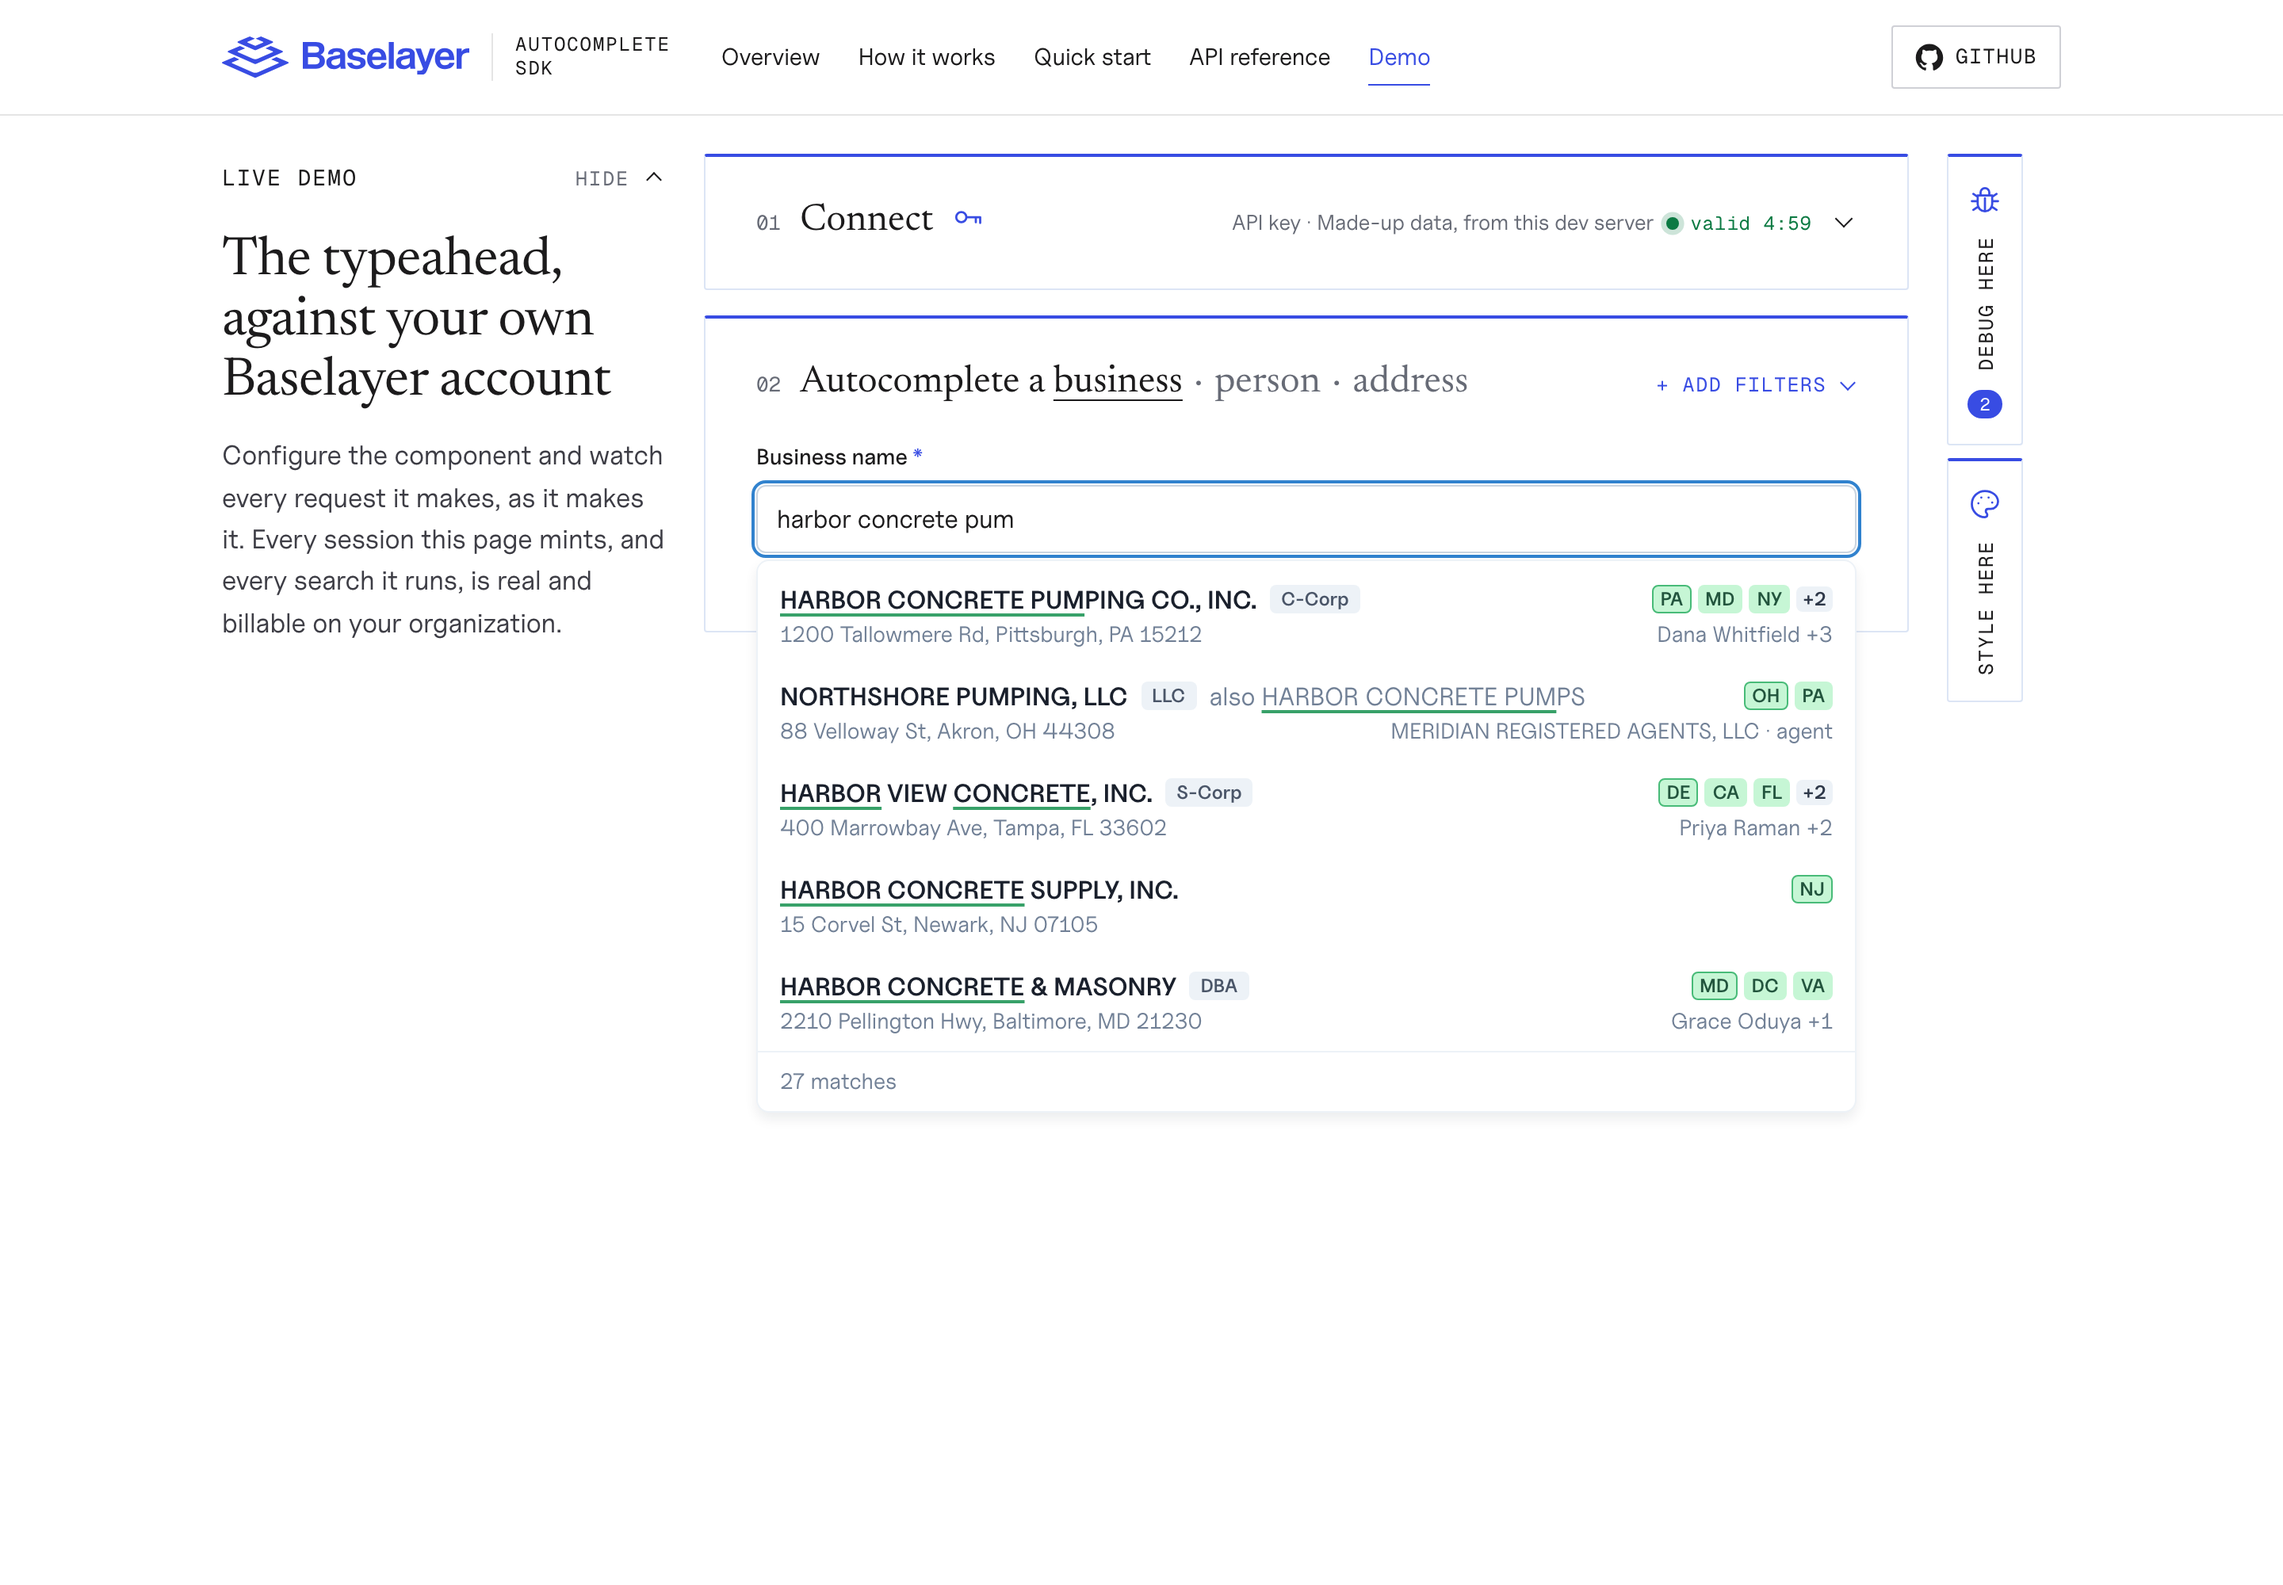
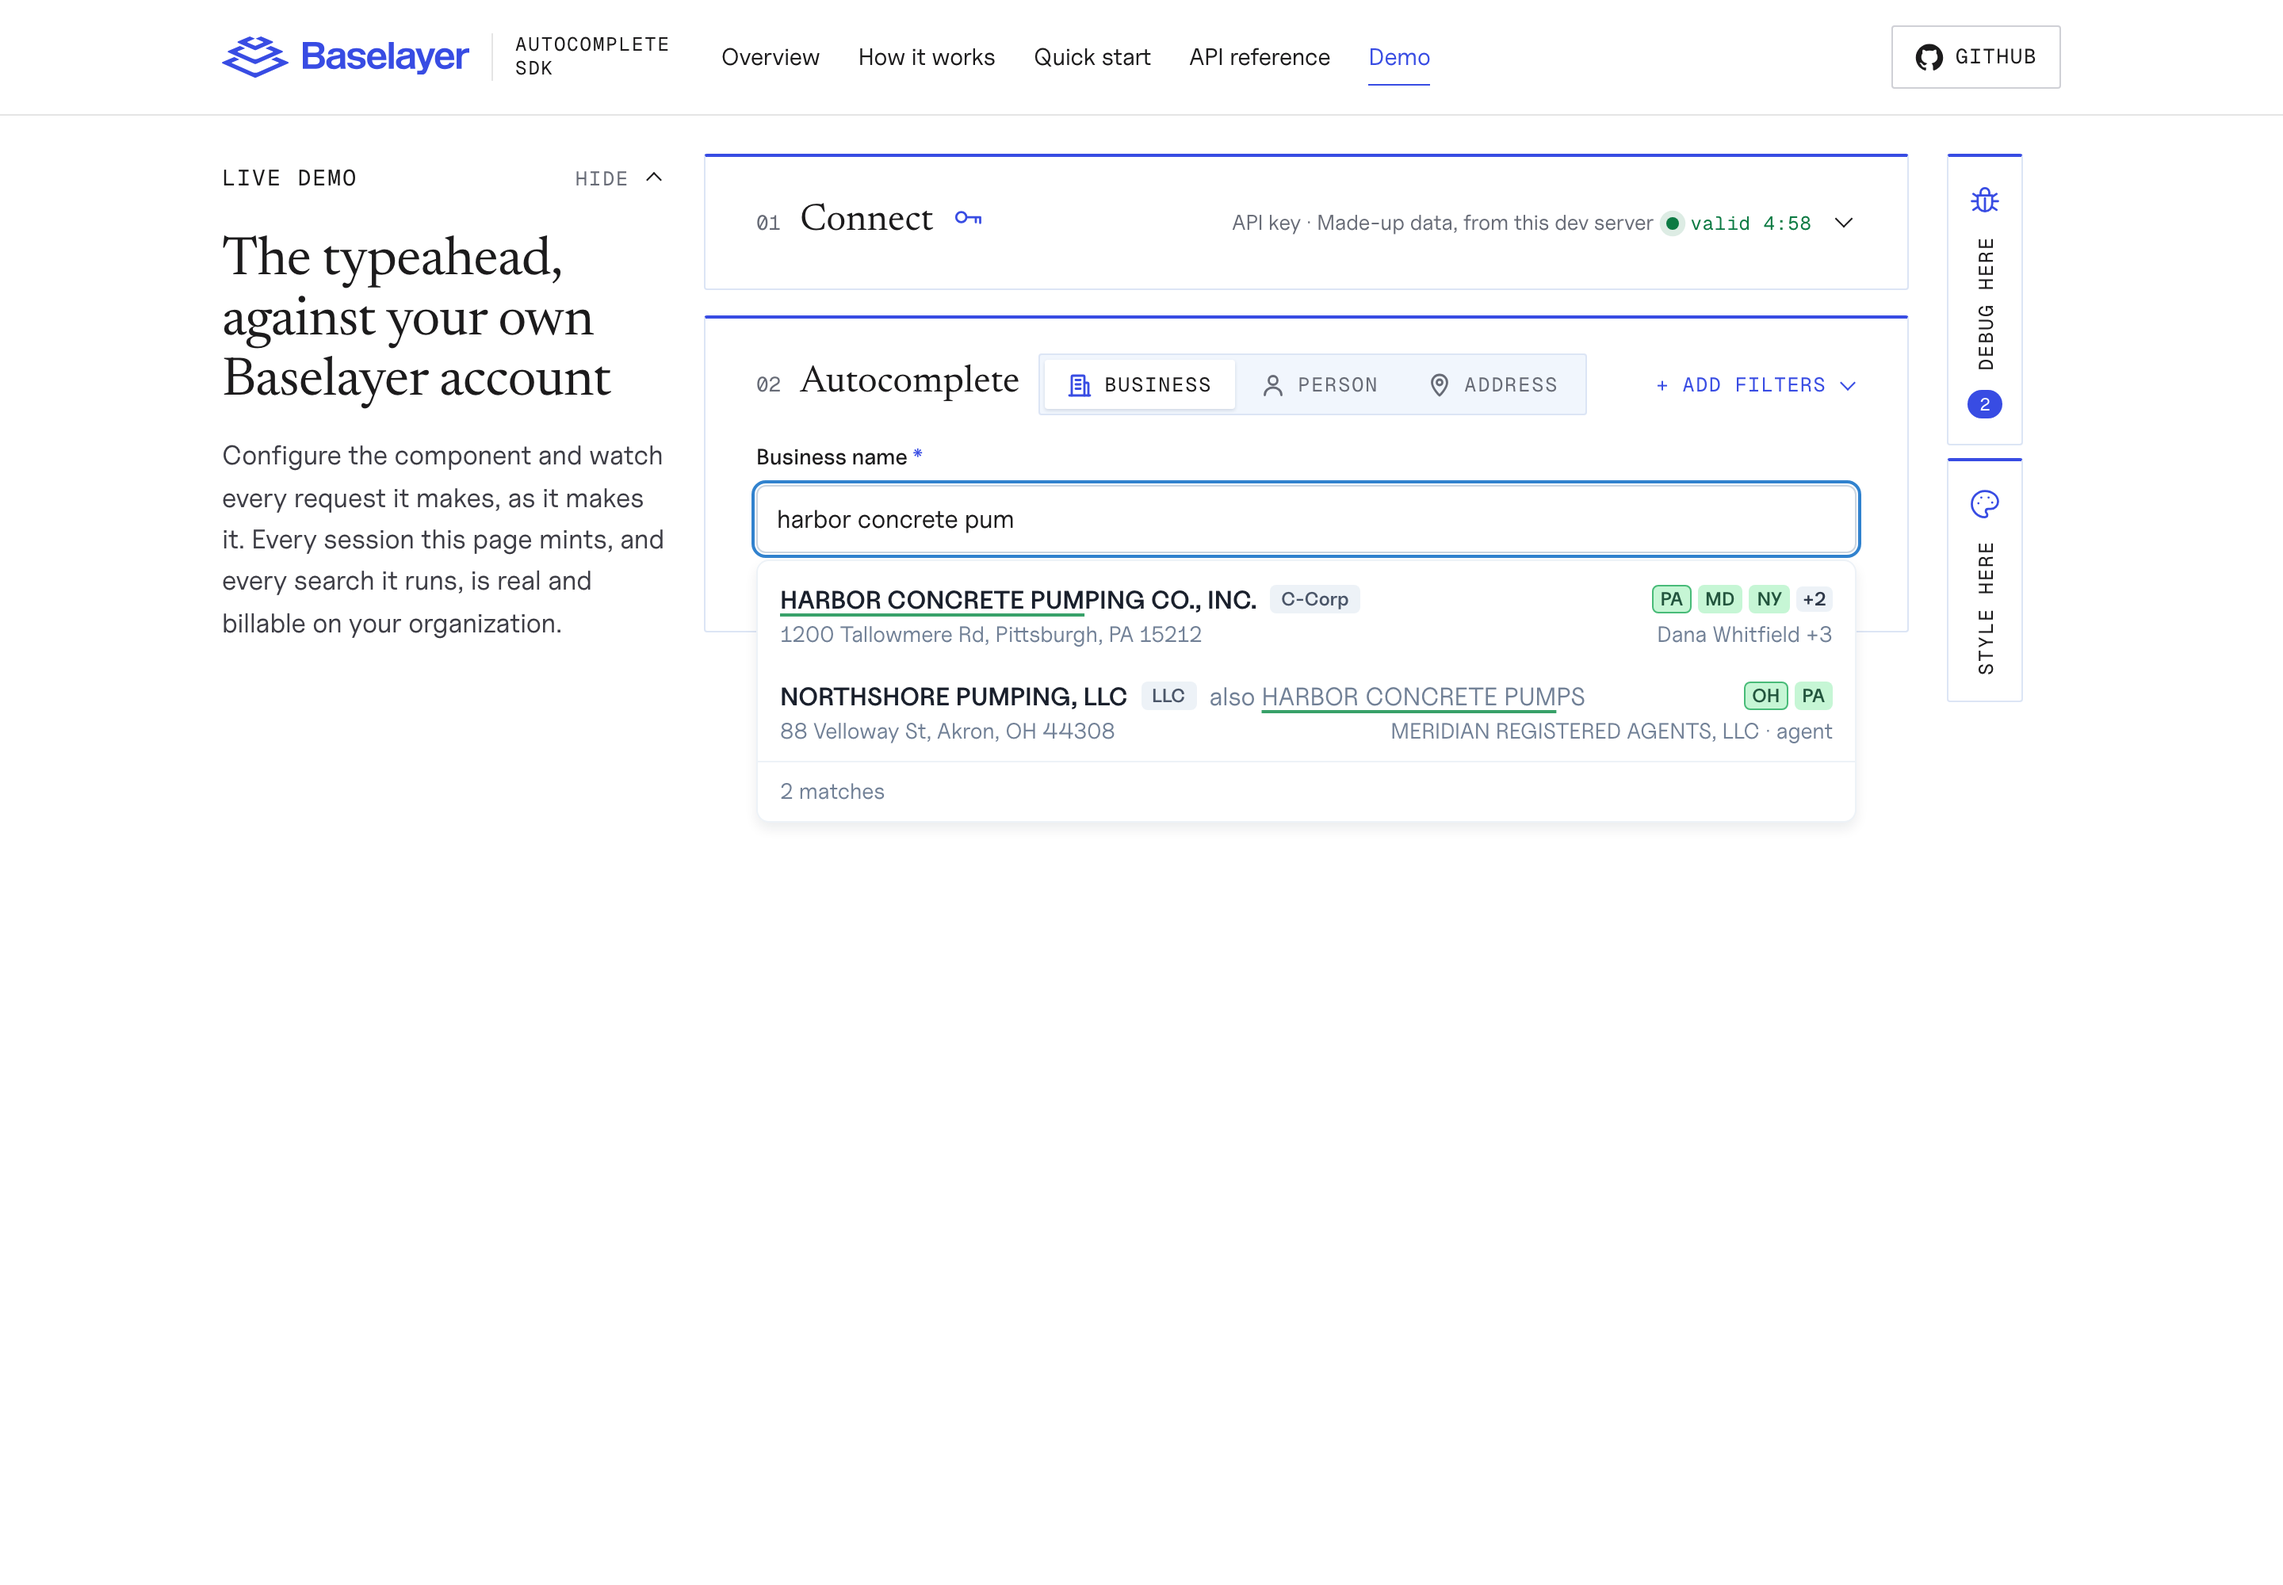
Retake the documentation screenshots of the demo and the API reference
The demo's title is a segmented button and the reference names its routes Autocomplete …, with a Try it here tab, so demo-split, demo-folded, demo-matched, demo-styled and site-api-reference are taken again, on the made-up data. docs/demo.md describes the title and the line under a picked business as they are.

diff --git a/docs/demo.md b/docs/demo.md
@@ -24,8 +24,8 @@ appears in them.
 
 The page is the window's height and never scrolls itself. It has three panes,
 side by side, each scrolling on its own: the introduction, the controls (**01
-Connect** and **02 Autocomplete a business**, and **03 Run a business search**
-once a business is picked), and Debug or Styling. The introduction folds to a
+Connect** and **02 Autocomplete**, and **03 Run a business search** once a
+business is picked), and Debug or Styling. The introduction folds to a
 **Live demo** tab with its **Hide**; opening Debug or Styling folds it too, to
 give that pane room, and the tab brings it back. On a narrow screen the panes
 stack and the page scrolls as any other does.
@@ -104,22 +104,23 @@ origin. For another environment, pick **Custom URL** and give its API host.
 
 ## The test form
 
-**02 Autocomplete a business, a person, or an address** is the component on a
-form of its own. Its title says what the field searches for, each search with
-its article: the selected one in blue, its noun underlined, the others muted and
-a click or an arrow key away. It offers only the searches the session's scope
-allows (**Autocomplete a business or a person** with two), and with businesses
-alone it reads **Autocomplete a business**; before you connect it offers all
-three, so Styling can show each. Business is the business name and
-its suggestions. Person and Address find the business another way: each
-person or address that fits comes with its counts (`7 businesses · 3
-addresses`), a person's first address, and a line for each of its first
-businesses, with the business's address, its states and the role there. Each
-business is a pick. A pick stays where it was made: the field takes the
-person's name or the address, and a line under it names the business picked,
-until you edit the field. Each search keeps its own text and its own pick:
-switching to another and back puts them back as they were, and the search
-switched to shows what was last typed in it, not what the other field held.
+**02 Autocomplete** is the component on a form of its own. Its title says what
+the field searches for: "Autocomplete" and a segmented button of the searches,
+each with the icon the component draws for it, the selected one raised and the
+others a click or an arrow key away. It offers only the searches the session's
+scope allows (two buttons with two), and with businesses alone it reads
+**Autocomplete a business**; before you connect it offers all three, so Styling
+can show each. Business is the business name and its suggestions. Person and
+Address find the business another way: each person or address that fits comes
+with its counts (`7 businesses · 3 addresses`), a person's first address, and a
+line for each of its first businesses, with the business's address, its states
+and the role there. Each business is a pick. A pick stays where it was made: the
+field takes the person's name or the address, and a line under it names the
+business picked and what it was found through (`Found through Dana Whitfield,
+an officer.`), until you edit the field. Each search keeps its own text and its
+own pick: switching to another and back puts them back as they were, and the
+search switched to shows what was last typed in it, not what the other field
+held.
 
 ![Searching by person: each person with their first address, their counts and their businesses](images/demo-person.png)
 

diff --git a/CHANGELOG.md b/CHANGELOG.md
@@ -79,6 +79,11 @@ breaking change bumps the minor version.
   API reference (the examples, the Live tab, Try it here's request body),
   whose URL takes the network panel's colours too.
 
+- The documentation's screenshots of the demo and of the API reference show
+  what they now are: the title's segmented button, the Autocomplete route
+  names and Try it here. `docs/demo.md` describes the title and the line under
+  a picked business as they are.
+
 ### Fixed
 
 - A name or an address field of the components (`BusinessAutocomplete`,
